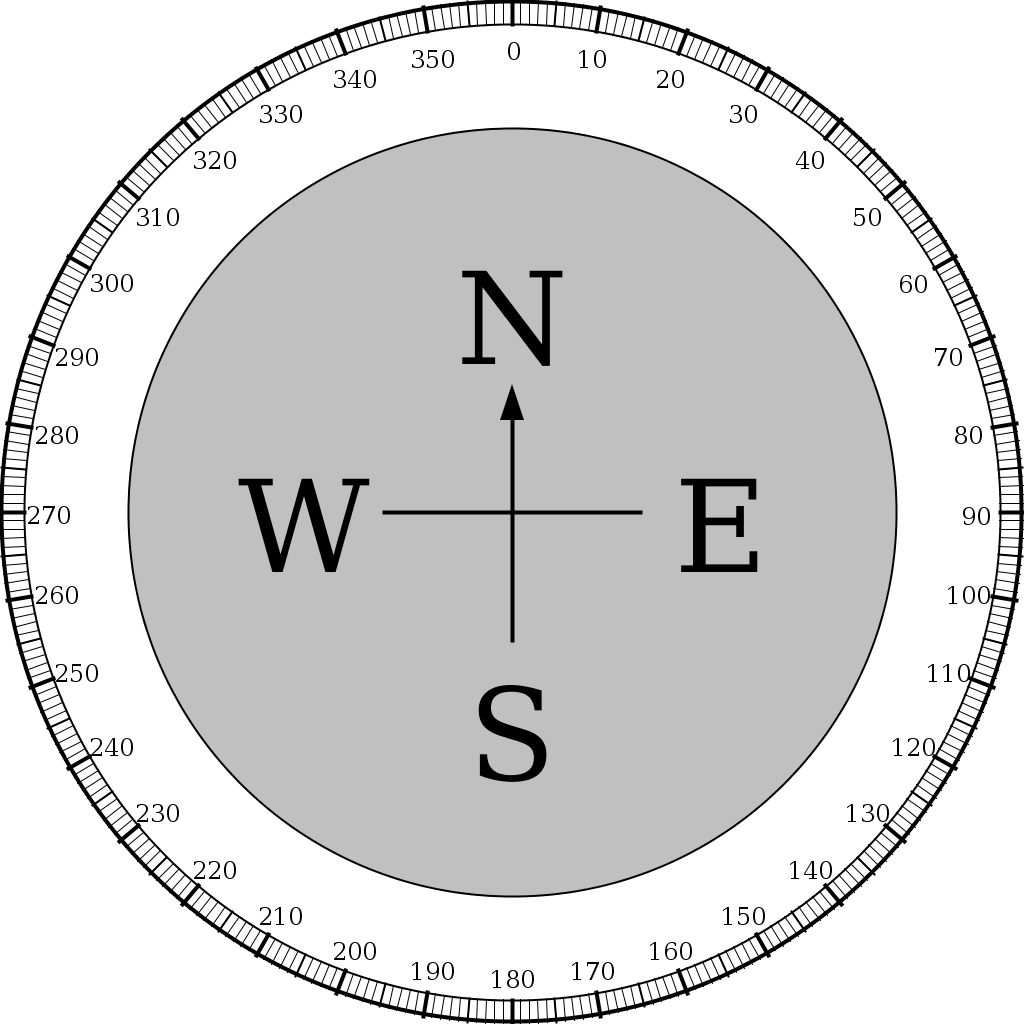
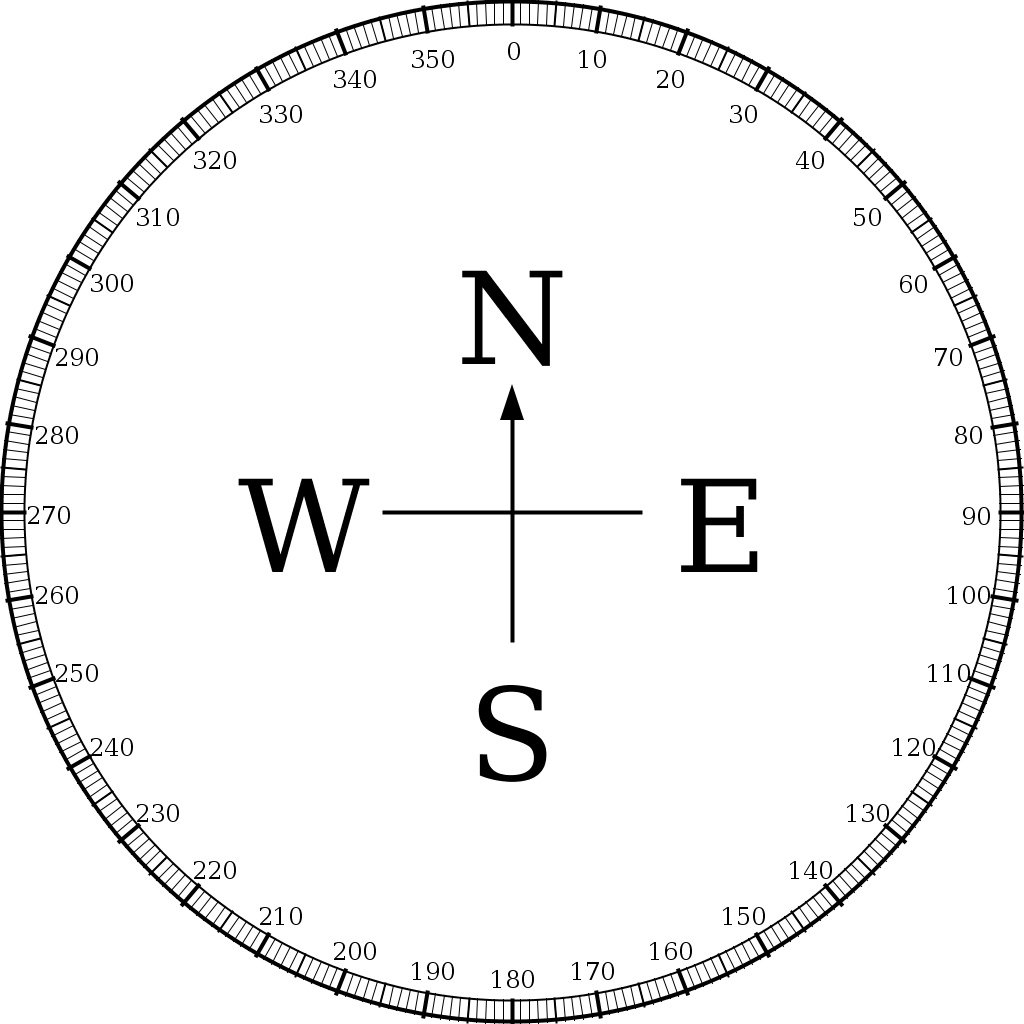
Add back-facing handling & textures.

diff --git a/core/src/io/github/rogerallen/sunangle/Sunangle.java b/core/src/io/github/rogerallen/sunangle/Sunangle.java
@@ -10,7 +10,7 @@
 
     public class Sunangle extends ApplicationAdapter {
 
-        private Drawable compassPlane, clockPlane;
+        private Drawable compassPlane, clockPlane, compassBackPlane, clockBackPlane;
         private PerspectiveCamera cam;
 
         @Override
@@ -26,8 +26,27 @@
                              10f, 0f,  10f,   1f, 1f, 0f, 1f,   0f, 0f
                     });
 
+            compassBackPlane = new Drawable(
+                    "vs_pct.glsl","fs_ct.glsl","compass_back.png",
+                    new float[] {
+                            // (x, y, z),     (r, g, b, a),     (s, t),
+                            -10f, 0f, -10f,   0f, 0f, 0f, 1f,   0f, 1f,
+                             10f, 0f, -10f,   1f, 0f, 0f, 1f,   1f, 1f,
+                            -10f, 0f,  10f,   0f, 1f, 0f, 1f,   0f, 0f,
+                             10f, 0f,  10f,   1f, 1f, 0f, 1f,   1f, 0f
+                    });
+
             clockPlane = new Drawable(
                     "vs_pct.glsl","fs_ct.glsl","clock.png",
+                    new float[] {
+                            // (x, y, z),     (r, g, b, a),     (s, t),
+                            -10f, -10f,  0f,   0f, 0f, 0f, 1f,   0f, 1f,
+                             10f, -10f,  0f,   1f, 0f, 0f, 1f,   1f, 1f,
+                            -10f,  10f,  0f,   0f, 0f, 1f, 1f,   0f, 0f,
+                             10f,  10f,  0f,   1f, 0f, 1f, 1f,   1f, 0f
+                    });
+            clockBackPlane = new Drawable(
+                    "vs_pct.glsl","fs_ct.glsl","clock_back.png",
                     new float[] {
                             // (x, y, z),     (r, g, b, a),     (s, t),
                             -10f, -10f,  0f,   0f, 0f, 0f, 1f,   1f, 1f,
@@ -47,8 +66,9 @@
             CameraInputController camController = new CameraInputController(cam);
             Gdx.input.setInputProcessor(camController);
 
-            Gdx.gl.glClearColor(0.2f, 0.2f, 0.2f, 1.0f);
-            Gdx.gl.glEnable( Gdx.gl.GL_DEPTH_TEST );
+            Gdx.gl.glClearColor(0.0f, 0.0f, 0.0f, 0.0f);
+            Gdx.gl.glEnable(GL20.GL_DEPTH_TEST);
+            Gdx.gl.glEnable(GL20.GL_CULL_FACE);
         }
 
         @Override
@@ -58,11 +78,20 @@
 
             Gdx.gl.glEnable(GL20.GL_BLEND);
             Gdx.gl.glBlendFunc(GL20.GL_SRC_ALPHA, GL20.GL_ONE_MINUS_SRC_ALPHA);
-            //Gdx.gl.glDepthFunc(GL20.GL_LEQUAL); TODO figure out 2-pass way to render clockPlane
+            Gdx.gl.glDepthFunc(GL20.GL_LEQUAL);
+            Gdx.gl.glCullFace(GL20.GL_BACK);
             compassPlane.render(cam.combined);
             clockPlane.render(cam.combined);
-            //Gdx.gl.glDepthFunc(GL20.GL_GREATER);
-            //clockPlane.render(cam.combined);
+            compassBackPlane.render(cam.combined);
+            clockBackPlane.render(cam.combined);
+            // draw when the depth test fails and ...
+            Gdx.gl.glDepthFunc(GL20.GL_GREATER);
+            // use the compassPlane alpha=1 in the FB to enable only that region
+            // this will require clearcolor=0,0,0
+            Gdx.gl.glBlendFunc(GL20.GL_ONE_MINUS_DST_ALPHA, GL20.GL_DST_ALPHA);
+            clockPlane.render(cam.combined);
+            clockBackPlane.render(cam.combined);
+            compassBackPlane.render(cam.combined);
             Gdx.gl.glDisable(GL20.GL_BLEND);
             Gdx.gl.glBlendFunc(GL20.GL_ONE, GL20.GL_ZERO);
 
